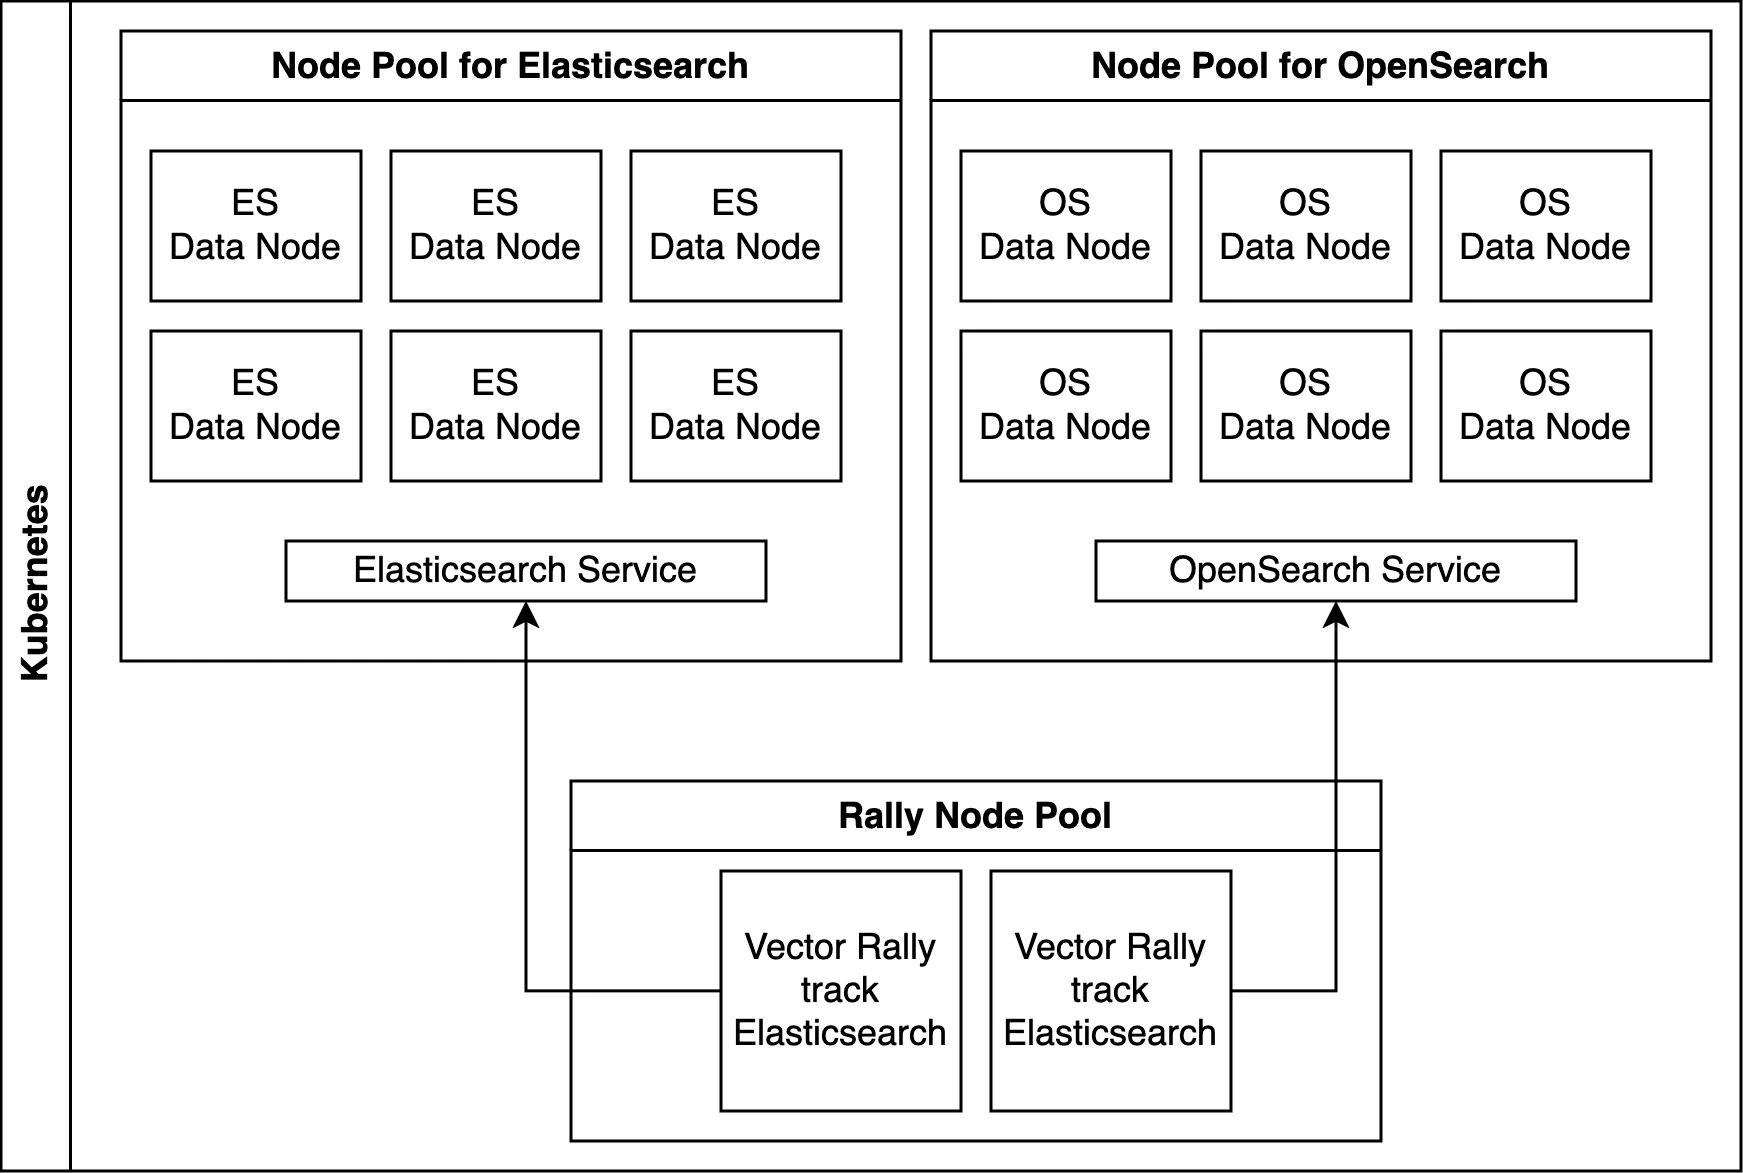
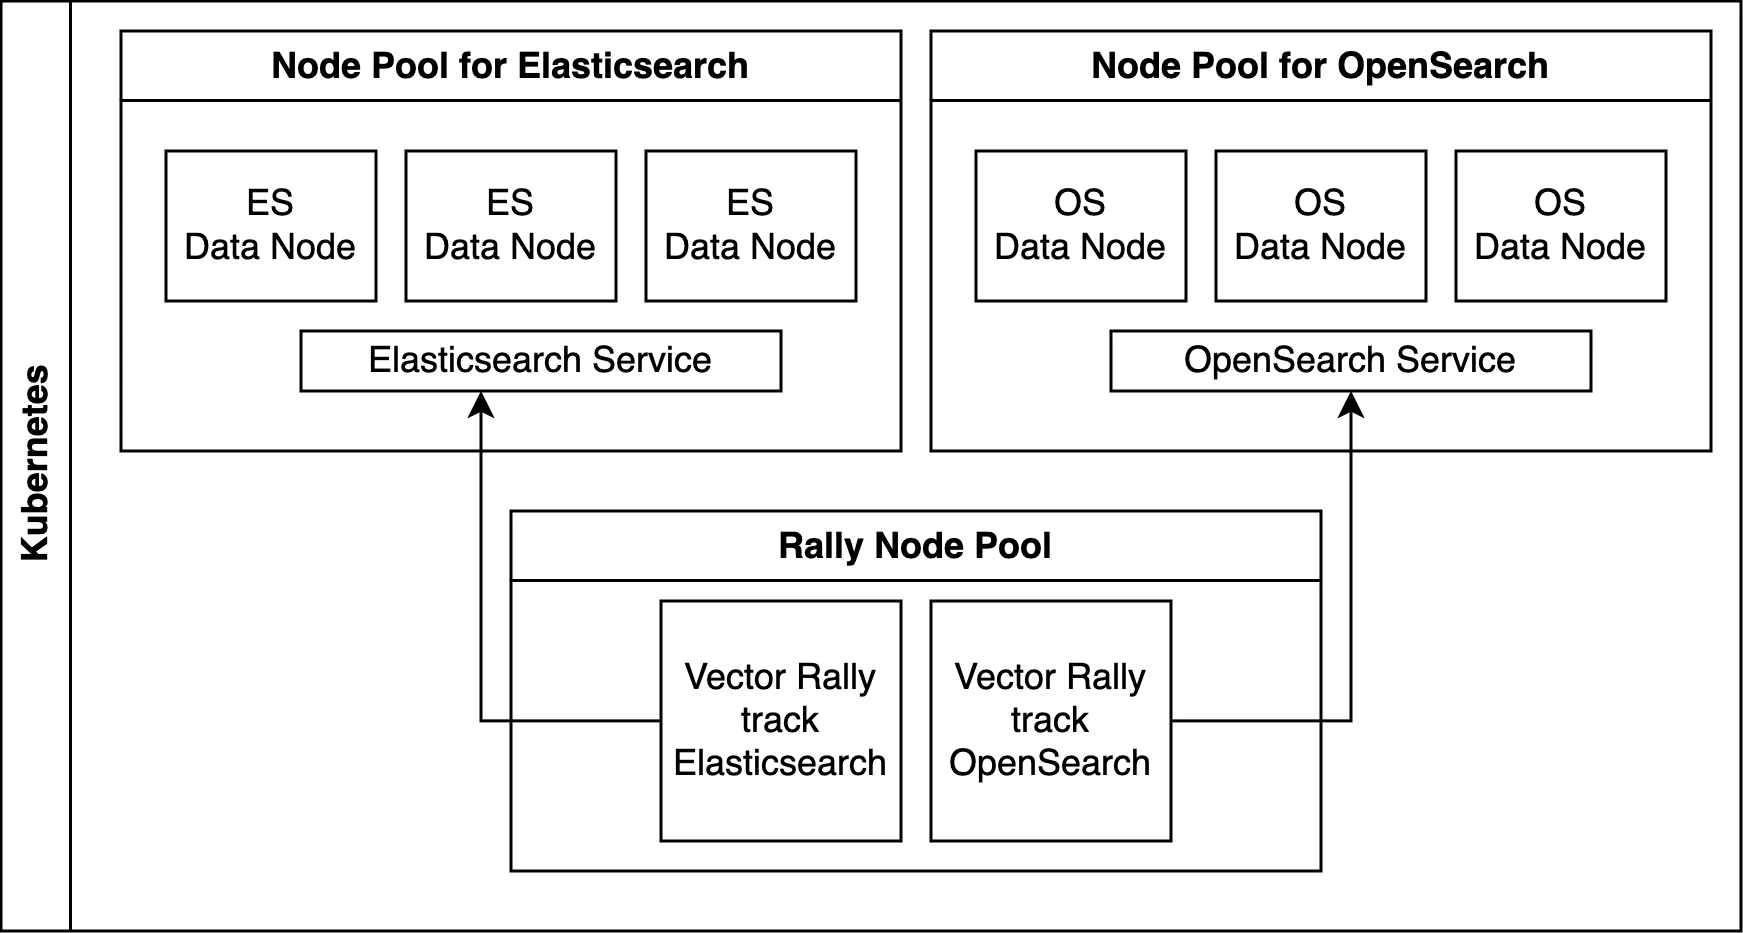
updated readme

Changed region(s): [[0.0, 0.0, 1.0, 1.0], [0.0, 0.373, 0.031, 0.6217]]

diff --git a/readme.md b/readme.md
@@ -9,9 +9,9 @@ To ensure fair testing grounds, both search engines were tested under identical 
 
 
 Use [this terraform script](./terraform/main.tf) to provision a Kubernetes cluster with:
-- 1 Node pool for Elasticsearch with 6 `e2-standard-32` machines (128GB RAM and 32 CPUs)
-- 1 Node pool for OpenSearch with 6 `e2-standard-32` machines (128GB RAM and 32 CPUs)
-- 1 Node pool for Rally with 2 `t2a-standard-16` machines (64GB RAM and 16 CPUs)
+- 1 Node pool for Elasticsearch with 3 `e2-standard-32` machines (128GB RAM and 32 CPUs)
+- 1 Node pool for OpenSearch with 3 `e2-standard-32` machines (128GB RAM and 32 CPUs)
+- 1 Node pool for Rally with 2 `e2-standard-4` machines (16GB RAM and 4 CPUs)
 
 
 ## Creating Elasticsearch and Opensearch clusters
@@ -19,8 +19,8 @@ Use [this terraform script](./terraform/main.tf) to provision a Kubernetes clust
 ### Install ECK
 
 ```bash
-kubectl create -f https://download.elastic.co/downloads/eck/2.9.0/crds.yaml
-kubectl apply -f https://download.elastic.co/downloads/eck/2.9.0/operator.yaml
+kubectl create -f https://download.elastic.co/downloads/eck/2.13.0/crds.yaml
+kubectl apply -f https://download.elastic.co/downloads/eck/2.13.0/operator.yaml
 ```
 
 Deploy the Elasticsearch Kubernetes Manifest [here](./k8s/elasticsearch-cluster.yml)
@@ -32,7 +32,7 @@ kubectl apply -f k8s/elasticsearch-cluster.yml
 
 ### Install OpenSearch Kubernetes Operator
 ```bash
-helm repo add opensearch-operator https://opster.github.io/opensearch-k8s-operator/
+helm repo add opensearch-operator https://opensearch-project.github.io/opensearch-k8s-operator/
 helm install opensearch-operator opensearch-operator/opensearch-operator
 ```
 
@@ -84,3 +84,5 @@ Then the run the rally pods:
  kubectl apply -f rally-openai_vector-es.yml rally-openai_vector-os.yml
 ```
 
+
+<img src="screenshots/k9s.webp">
